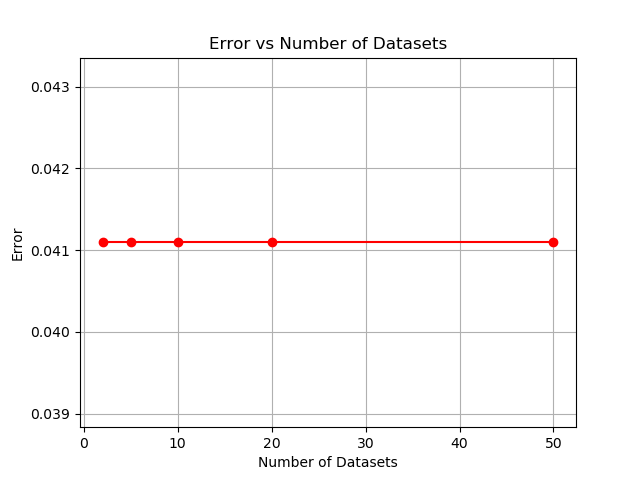
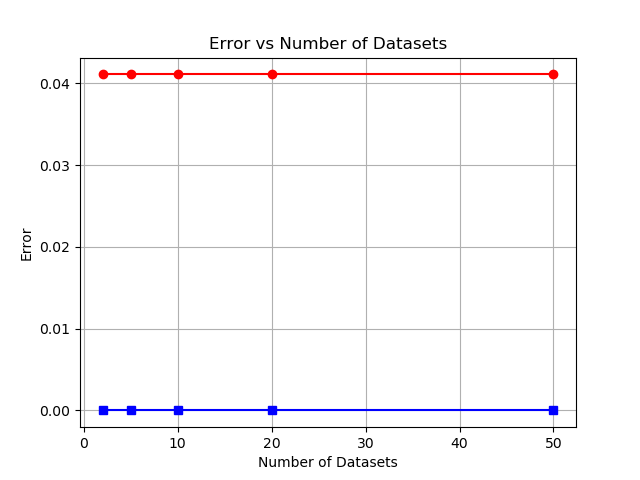
new plots and data

diff --git a/scripts/mainRealData4.cpp b/scripts/mainRealData4.cpp
@@ -71,7 +71,7 @@ int main()
     loadMatrices(C2_files, C2);
 
     // Resize the vectors to keep only the first 10 matrices
-    int new_size = 20;
+    int new_size = 10;
     A1.resize(new_size);
     B1.resize(new_size);
     C1.resize(new_size);
@@ -79,9 +79,14 @@ int main()
     B2.resize(new_size);
     C2.resize(new_size);
 
-    int init_guess = 1;
+    int init_guess = 3;
     Eigen::Matrix4d X_init, Y_init, Z_init;
     Eigen::Matrix4d X_cal1, Y_cal1, Z_cal1, X_cal2, Y_cal2, Z_cal2, X_cal3, Y_cal3, Z_cal3;
+
+    // Open the file for writing
+    std::ofstream file("/home/raghav/cws/axbycz_probabilistic_method/results/results.txt");
+    // Write the headers
+    file << "Num_Matrices\tError1\tError3" << std::endl;
 
     if (init_guess == 1) {
         X_init = Eigen::Matrix4d::Identity();
@@ -146,20 +151,41 @@ int main()
                         1, 0.001, 0.001,
                         X_cal1, Y_cal1, Z_cal1);
 
+            // Iterative Refinement
+            int num = 1;
+
+            axbyczProb3(A1, Bp1, C1,
+                        A2, Bp2, C2,
+                        X_init, Y_init, Z_init,
+                        X_cal3, Y_cal3, Z_cal3 ,
+                        num);
+
+            // Verification
+            // Prob 1
+            err1[rk] = metric(A1, B1, C1, X_cal1, Y_cal1, Z_cal1);
+
+            // Iterative refinement
+            err3[rk] = metric(A1, B1, C1, X_cal3, Y_cal3, Z_cal3);
+
             // Save the errors in the respective lists
             err1_list[k] = err1[r.back()];
-            //err3_list[k] = err3[r.back()];
-        }
+            err3_list[k] = err3[r.back()];
+
+            // Write the data to the file
+            file << num_matrices_list[k] << "\t" << err1_list[k] << "\t" << err3_list[k] << std::endl;        }
+
+        // Close the file
+        file.close();
 
         // Plot error vs number of input matrices
         plt::figure();
         plt::plot(num_matrices_list, err1_list, "o-r");
-        //plt::plot(num_matrices_list, err3_list, "s-b");
+        plt::plot(num_matrices_list, err3_list, "s-b");
         plt::xlabel("Number of Datasets");
         plt::ylabel("Error");
         plt::title("Error vs Number of Datasets");
         plt::grid(true);
-        plt::save("results/Error_vs_Number_of_Input_Matrices.png");
-        plt::show();
+        plt::save("results/Error_vs_Number_of_Input_Matrices_2.png");
+        //plt::show();
     }
 }

diff --git a/scripts/mainRealData.cpp b/scripts/mainRealData.cpp
@@ -71,7 +71,7 @@ int main()
     loadMatrices(C2_files, C2);
 
     // Resize the vectors to keep only the first 10 matrices
-    int new_size = 1;
+    int new_size = 10;
     A1.resize(new_size);
     B1.resize(new_size);
     C1.resize(new_size);
@@ -81,8 +81,12 @@ int main()
 
     size_t num_matrices = A1.size();
     std::cout << "Number of matrices in A1: " << num_matrices << std::endl;
+    size_t b1 = B1.size();
+    std::cout << "Number of matrices in B1: " << b1 << std::endl;
+    size_t c2 = C2.size();
+    std::cout << "Number of matrices in C2: " << c2 << std::endl;
 
-    int init_guess = 1;
+    int init_guess = 3;
     Eigen::Matrix4d X_init, Y_init, Z_init;
     Eigen::Matrix4d X_cal1, Y_cal1, Z_cal1, X_cal2, Y_cal2, Z_cal2, X_cal3, Y_cal3, Z_cal3;
 
@@ -102,7 +106,7 @@ int main()
         Z_init = fKine(qz3);
     }
 
-    bool isRandPerm = false;
+    bool isRandPerm = true;
 
     // Choice of scramble rate
     std::vector<int> r = {0, 10, 20, 30, 40, 50, 60, 70, 80, 90, 100};
@@ -201,8 +205,17 @@ int main()
     plt::ylabel("Error");
     plt::title("Real Data");
     plt::grid(true);
-    plt::save("results/Error_vs_Scramble_Rate_45.png");
-    plt::show();
+    plt::save("results/Error_vs_Scramble_Rate_46.png");
+    //plt::show();
+
+    std::ofstream dataFile("results/plots_data.txt");
+
+    dataFile << "Scramble Rate,Error 1,Error 3" << std::endl;
+    for (int i = 0; i < r.size(); ++i) {
+        dataFile << r[i] << "," << err1[i] << "," << err3[i] << std::endl;
+    }
+
+    dataFile.close();
 
     std::cout << "Error 1 [0]: " << err1[0] << std::endl;
     std::cout << "Error 1 [10]: " << err1[100] << std::endl;

diff --git a/scripts/plot_main.py b/scripts/plot_main.py
@@ -1,0 +1,28 @@
+import pandas as pd
+import matplotlib.pyplot as plt
+
+# Read data from the file
+data = pd.read_csv("/home/raghav/cws/temp/axbycz_probabilistic_method/results/plots_data.txt")
+
+# Create the plot
+plt.figure()
+
+plt.plot(data["Scramble Rate"].to_numpy(), data["Error 1"].to_numpy(), "o-r", label="Prob 1")
+plt.plot(data["Scramble Rate"].to_numpy(), data["Error 3"].to_numpy(), "s-b", label="Iterative")
+
+# Set labels and title
+plt.xlabel("Scramble Rate (%)")
+plt.ylabel("Error")
+plt.title("Real Data")
+
+# Add legend inside the plot box at the top right
+plt.legend(loc='upper right', bbox_to_anchor=(0.95, 0.95))
+
+# Add grid
+#plt.grid(True)
+
+# Save the plot to a file
+plt.savefig("/home/raghav/cws/temp/axbycz_probabilistic_method/results/Error_vs_Scramble_Rate_Python.png")
+
+# Show the plot
+plt.show()

diff --git a/scripts/plot_main_1.py b/scripts/plot_main_1.py
@@ -1,0 +1,14 @@
+import pandas as pd
+import matplotlib.pyplot as plt
+
+data = pd.read_csv("/home/raghav/cws/axbycz_probabilistic_method/results/results.txt", sep='\t')
+
+plt.plot(data["Num_Matrices"].to_numpy(), data["Error1"].to_numpy(), "o-r", label="Probabilistic")
+plt.plot(data["Num_Matrices"].to_numpy(), data["Error3"].to_numpy(), "s-b", label="Iterative")
+plt.xlabel("Number of Datasets")
+plt.ylabel("Error")
+plt.title("Error vs Number of Datasets")
+plt.legend()
+#plt.grid(True)
+plt.savefig("/home/raghav/cws/axbycz_probabilistic_method/results/Error_vs_Datasets_2.png")
+plt.show()
